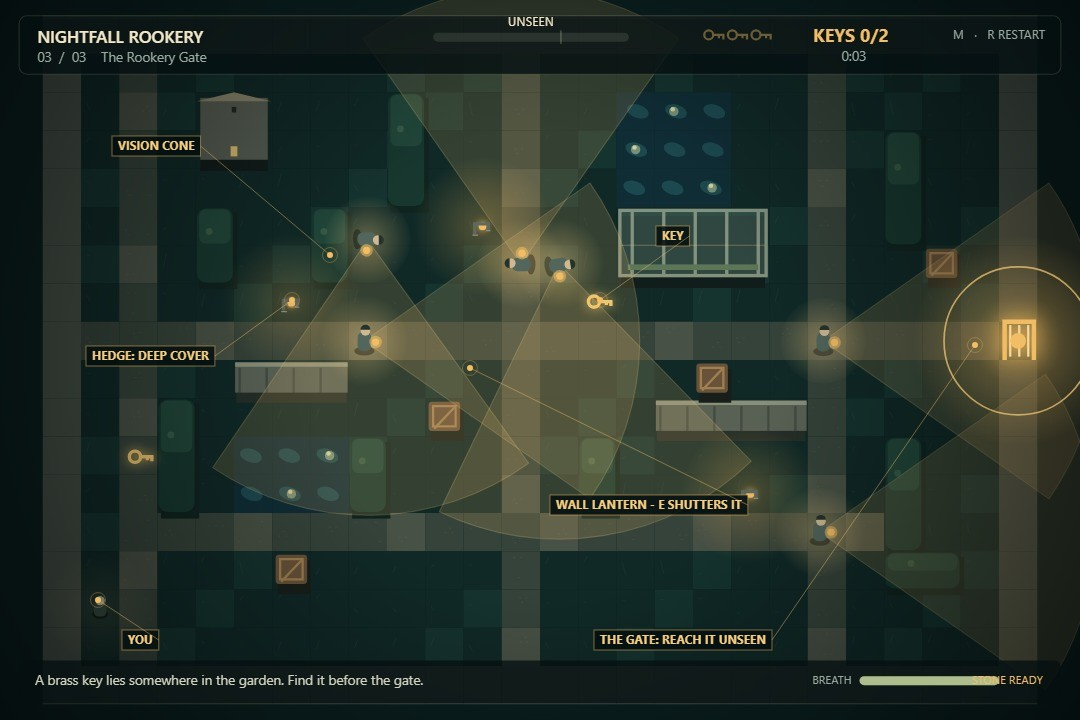
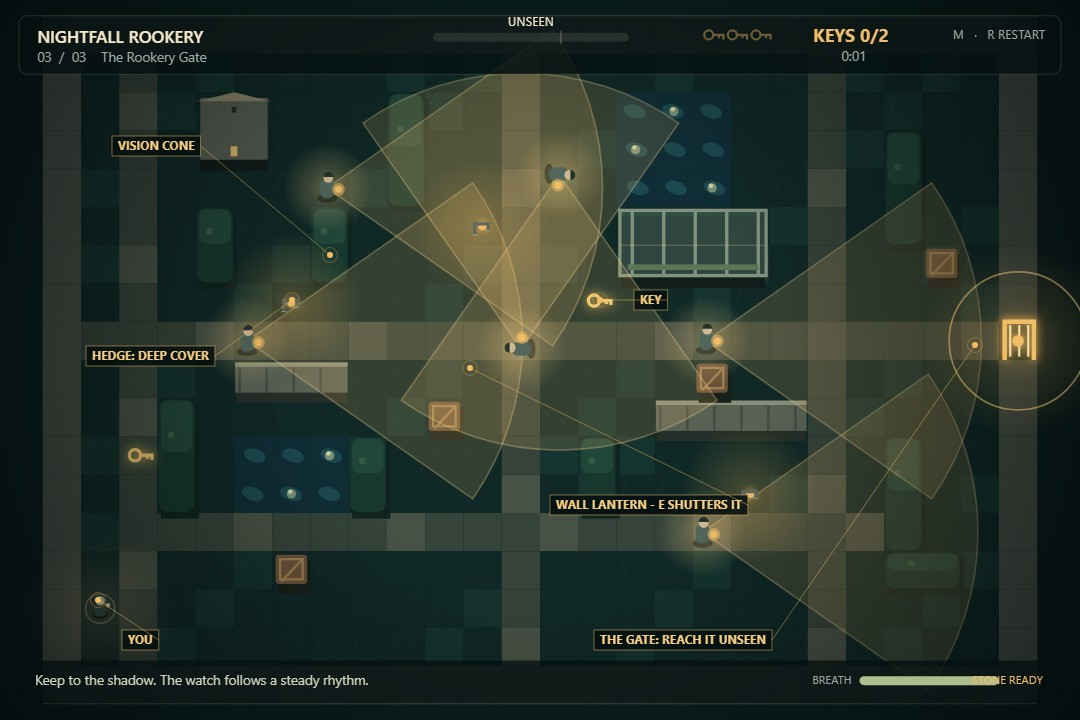
Brighten the keeper and the cones, relabel the screenshots

diff --git a/game/src/render.js b/game/src/render.js
@@ -159,13 +159,13 @@ function drawCone(ctx, guard, length, time, lanterns) {
   const dim = radius < length * TILE;
   const scale = dim ? 0.48 : 1;
   const coneColor = guard.mode === 'chase' ? [226, 65, 55, 0.24] : guard.mode === 'suspicious' ? [240, 224, 176, 0.23] : [244, 195, 113, 0.16];
-  const edgeColor = guard.mode === 'chase' ? [239, 102, 84, 0.42] : [255, 216, 149, 0.2];
+  const edgeColor = guard.mode === 'chase' ? [239, 102, 84, 0.55] : guard.mode === 'suspicious' ? [255, 226, 170, 0.38] : [255, 216, 149, 0.30];
   ctx.save();
   ctx.beginPath(); ctx.moveTo(guard.x, guard.y);
   ctx.arc(guard.x, guard.y, radius, guard.angle - guard.halfAngle, guard.angle + guard.halfAngle);
   ctx.closePath(); ctx.fillStyle = `rgba(${coneColor[0]}, ${coneColor[1]}, ${coneColor[2]}, ${coneColor[3] * scale})`; ctx.fill();
   ctx.strokeStyle = `rgba(${edgeColor[0]}, ${edgeColor[1]}, ${edgeColor[2]}, ${edgeColor[3] * scale})`;
-  ctx.lineWidth = 1; ctx.stroke();
+  ctx.lineWidth = 1.4; ctx.stroke();
   const lantern = ctx.createRadialGradient(guard.x, guard.y, 1, guard.x, guard.y, 40);
   lantern.addColorStop(0, `rgba(255, 214, 135, ${dim ? '.15' : '.34'})`); lantern.addColorStop(1, 'rgba(255, 214, 135, 0)');
   ctx.fillStyle = lantern; ctx.beginPath(); ctx.arc(guard.x, guard.y, 40 + Math.sin(time * 7 + guard.bob) * 2, 0, Math.PI * 2); ctx.fill();
@@ -220,9 +220,17 @@ function drawKeys(ctx, level, time) {
 }
 
 function drawCoverLight(ctx, player) {
-  const shade = ctx.createRadialGradient(player.x, player.y, 2, player.x, player.y, player.hidden ? 94 : 50);
-  shade.addColorStop(0, player.hidden ? 'rgba(174, 193, 145, .13)' : 'rgba(240, 209, 148, .1)');
-  shade.addColorStop(1, 'rgba(240, 209, 148, 0)'); ctx.fillStyle = shade; ctx.fillRect(player.x - 100, player.y - 100, 200, 200);
+  // The keeper carries a shuttered hand lamp: a small warm ring that makes them
+  // findable in a still frame without giving away more ground than they gain.
+  const reach = player.hidden ? 108 : 66;
+  const shade = ctx.createRadialGradient(player.x, player.y, 2, player.x, player.y, reach);
+  shade.addColorStop(0, player.hidden ? 'rgba(186, 205, 156, .20)' : 'rgba(246, 216, 156, .17)');
+  shade.addColorStop(0.55, player.hidden ? 'rgba(174, 193, 145, .07)' : 'rgba(240, 209, 148, .06)');
+  shade.addColorStop(1, 'rgba(240, 209, 148, 0)'); ctx.fillStyle = shade; ctx.fillRect(player.x - reach, player.y - reach, reach * 2, reach * 2);
+  ctx.strokeStyle = player.hidden ? 'rgba(214, 232, 190, .42)' : 'rgba(247, 221, 166, .34)';
+  ctx.lineWidth = 1.2; ctx.beginPath(); ctx.arc(player.x, player.y, player.hidden ? 15 : 13, 0, Math.PI * 2); ctx.stroke();
+  ctx.fillStyle = 'rgba(247, 222, 168, .9)';
+  ctx.beginPath(); ctx.arc(player.x + 7, player.y - 3, 1.9, 0, Math.PI * 2); ctx.fill();
 }
 
 function drawVignette(ctx) {

diff --git a/README.md b/README.md
@@ -46,9 +46,9 @@ Open `index.html`, press Enter, and pick a level with `1`, `2` or `3`.
 
 ## The garden
 
-![The Glasshouse](screenshots/2-level1.jpg)
+![Deep cover, one key found](screenshots/2-deep-cover.jpg)
 
-![Deep cover behind the hedge](screenshots/3-hedge.jpg)
+![The systems of a level, labelled](screenshots/3-diagram.jpg)
 
 ![The lamplighters find you](screenshots/4-caught.jpg)
 
